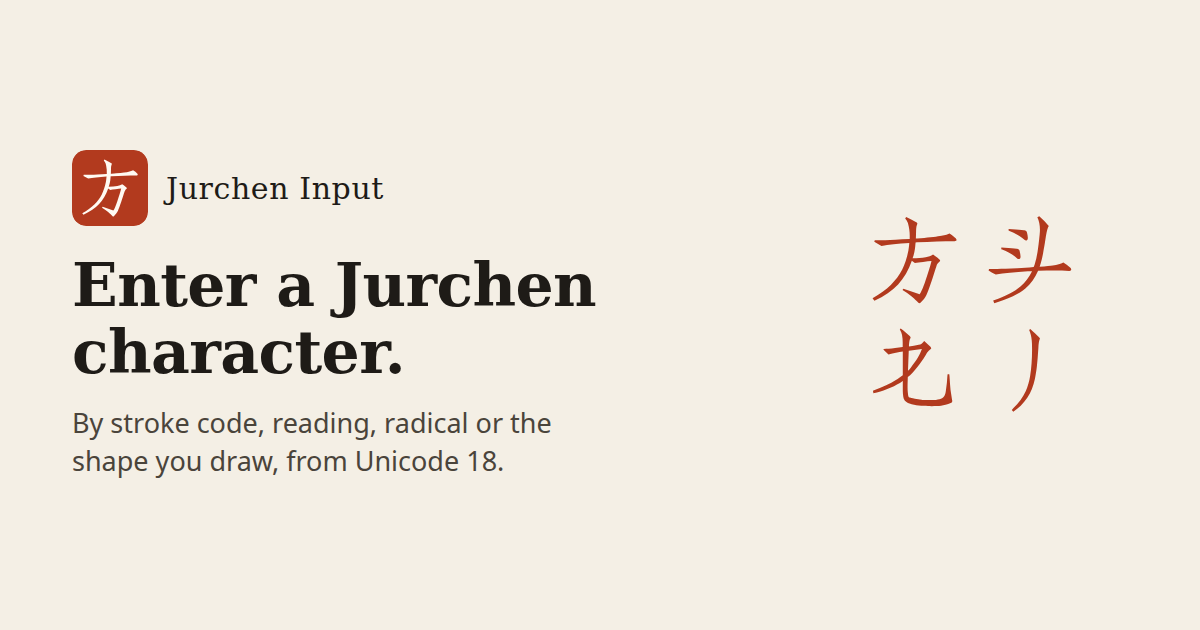
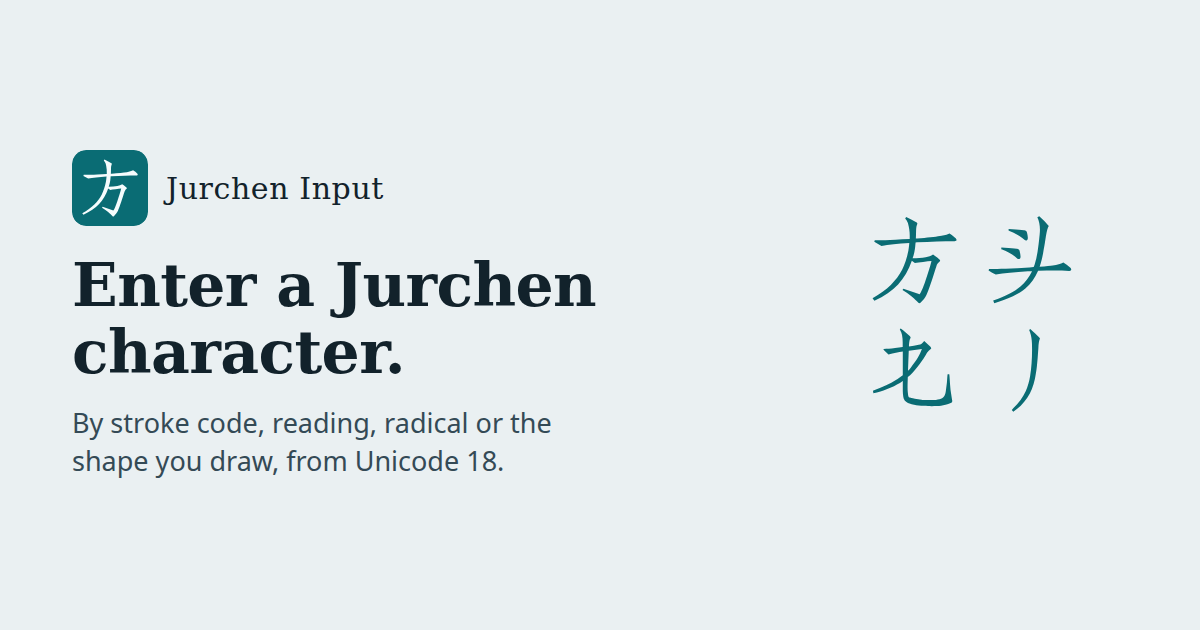
feat: give the site its own cool palette and mark colours

diff --git a/design/tokens.css b/design/tokens.css
@@ -1,6 +1,6 @@
 /* Jurchen Input design tokens.
 
-   The semantic layer and the paper primitives. Every colour is a light-dark() pair,
+   The semantic layer and the primitives. Every colour is a light-dark() pair,
    so `color-scheme` alone picks the side; a page that offers a switch sets `data-theme="light"`
    or `data-theme="dark"` on the root.
 
@@ -22,34 +22,34 @@
 }
 
 :root {
-  /* The paper primitives; the semantic tokens below read them. */
-  --p-canvas: light-dark(#f4efe5, #141210);
-  --p-surface: light-dark(#fffcf6, #1c1a17);
-  --p-sunken: light-dark(#ece5d8, #100f0d);
-  --p-hover: light-dark(#efe7d9, #26231f);
-  --p-active: light-dark(#e4dbca, #302c27);
-  --p-ink: light-dark(#1e1b17, #ece6dc);
-  --p-soft: light-dark(#4a443b, #c4bcae);
-  --p-muted: light-dark(#6d6456, #9a9184);
-  --p-border: light-dark(#e3dbcc, #2e2a25);
-  --p-border-strong: light-dark(#cbbfab, #48423a);
-  --p-control: light-dark(#8b7d68, #807565);
-  --p-control-hover: light-dark(#6f6353, #9a8e7d);
-  --p-accent: light-dark(#a83418, #f08a6b);
-  --p-accent-hover: light-dark(#8c2a13, #ffa387);
-  --p-accent-active: light-dark(#721f0d, #ffb8a1);
-  --p-accent-soft: light-dark(#f6e3da, #3a2219);
-  --p-accent-ink: light-dark(#8c2a13, #ffa387);
-  --p-on-accent: light-dark(#fffaf2, #1d110c);
-  --p-danger: light-dark(#b42318, #ff8a80);
-  --p-danger-hover: light-dark(#971c13, #ffa59d);
-  --p-danger-soft: light-dark(#fdecea, #3a1e1c);
-  --p-on-danger: light-dark(#fffaf2, #2a0b08);
-  --p-inverse-surface: light-dark(#1e1b17, #ece6dc);
-  --p-inverse-ink: light-dark(#fffaf2, #141210);
-  --p-selection: light-dark(#f3ddd2, #4a2a1f);
-  --p-scrollbar: light-dark(#cbbfab, #48423a);
-  --p-scrollbar-hover: light-dark(#8b7d68, #807565);
+  /* The primitives; the semantic tokens below read them. */
+  --p-canvas: light-dark(#eaf0f2, #0d1619);
+  --p-surface: light-dark(#f8fbfc, #142126);
+  --p-sunken: light-dark(#dde6ea, #0a1114);
+  --p-hover: light-dark(#e3ebee, #1c2c32);
+  --p-active: light-dark(#d3dee3, #25383f);
+  --p-ink: light-dark(#12222b, #e3eef1);
+  --p-soft: light-dark(#344a56, #b3c7ce);
+  --p-muted: light-dark(#4f6773, #8aa1aa);
+  --p-border: light-dark(#d4dfe4, #24363d);
+  --p-border-strong: light-dark(#b3c4cc, #3c535c);
+  --p-control: light-dark(#6a828e, #6f8893);
+  --p-control-hover: light-dark(#526a77, #8aa1aa);
+  --p-accent: light-dark(#0a6c74, #5cc9d0);
+  --p-accent-hover: light-dark(#08565d, #7fd8de);
+  --p-accent-active: light-dark(#064349, #a0e4e9);
+  --p-accent-soft: light-dark(#d4ecee, #12363b);
+  --p-accent-ink: light-dark(#08565d, #7fd8de);
+  --p-on-accent: light-dark(#f5fcfd, #06191c);
+  --p-danger: light-dark(#b3261e, #ff8f87);
+  --p-danger-hover: light-dark(#93201a, #ffaaa3);
+  --p-danger-soft: light-dark(#fbe9e8, #3a1f1f);
+  --p-on-danger: light-dark(#fdf6f5, #2a0b0a);
+  --p-inverse-surface: light-dark(#12222b, #e3eef1);
+  --p-inverse-ink: light-dark(#f5fcfd, #0d1619);
+  --p-selection: light-dark(#cfe8ea, #1c454b);
+  --p-scrollbar: light-dark(#b3c4cc, #3c535c);
+  --p-scrollbar-hover: light-dark(#6a828e, #6f8893);
 
   /* Surfaces. There are three: the page, the panel, and the inset. Hover and pressed are the
      only other fills, so a page does not grow a stack of near-identical greys. */
@@ -58,7 +58,7 @@
   --ui-color-surface-sunken: var(--p-sunken);
   --ui-color-surface-hover: var(--p-hover);
   --ui-color-surface-active: var(--p-active);
-  --ui-color-overlay: light-dark(rgb(35 27 18 / 0.32), rgb(0 0 0 / 0.62));
+  --ui-color-overlay: light-dark(rgb(8 24 32 / 0.34), rgb(0 0 0 / 0.62));
 
   /* Text */
   --ui-color-ink: var(--p-ink);
@@ -100,8 +100,8 @@
   --ui-color-inverse-ink: var(--p-inverse-ink);
 
   /* Shadow: only overlays cast one. The page itself is flat. */
-  --ui-shadow-color-2: light-dark(rgb(46 32 20 / 0.18), rgb(0 0 0 / 0.6));
-  --ui-shadow-1: 0 1px 2px light-dark(rgb(46 32 20 / 0.08), rgb(0 0 0 / 0.45));
+  --ui-shadow-color-2: light-dark(rgb(10 34 46 / 0.18), rgb(0 0 0 / 0.6));
+  --ui-shadow-1: 0 1px 2px light-dark(rgb(10 34 46 / 0.08), rgb(0 0 0 / 0.45));
   --ui-shadow-2: 0 10px 28px var(--ui-shadow-color-2);
 
   /* Type */
@@ -166,7 +166,7 @@
   --ui-switch-height: 24px;
   --ui-switch-thumb: 18px;
   --ui-switch-travel: 16px;
-  --ui-color-switch-thumb: light-dark(#fffcf6, #f4efe5);
+  --ui-color-switch-thumb: light-dark(#f8fbfc, #e3eef1);
   --ui-disabled-opacity: 0.45;
 
   /* Focus: one ring, everywhere. */

diff --git a/app/index.html b/app/index.html
@@ -4,8 +4,8 @@
   <meta charset="utf-8">
   <meta name="viewport" content="width=device-width, initial-scale=1, viewport-fit=cover">
   <meta name="color-scheme" content="light dark">
-  <meta name="theme-color" content="#f4efe5" media="(prefers-color-scheme: light)">
-  <meta name="theme-color" content="#141210" media="(prefers-color-scheme: dark)">
+  <meta name="theme-color" content="#eaf0f2" media="(prefers-color-scheme: light)">
+  <meta name="theme-color" content="#0d1619" media="(prefers-color-scheme: dark)">
   <link rel="icon" href="/favicon.svg" type="image/svg+xml" sizes="any">
   <link rel="icon" href="/icon-32.png" type="image/png" sizes="32x32">
   <link rel="apple-touch-icon" href="/apple-touch-icon.png">

diff --git a/design/base.css b/design/base.css
@@ -175,8 +175,8 @@ html {
 
 @media (prefers-contrast: more) {
   :root {
-    --ui-color-ink-muted: light-dark(#4a443b, #c4bcae);
-    --ui-color-border: light-dark(#cbbfab, #48423a);
+    --ui-color-ink-muted: light-dark(#344a56, #b3c7ce);
+    --ui-color-border: light-dark(#b3c4cc, #3c535c);
     --ui-color-control-border: var(--ui-color-ink-muted);
     --ui-color-control-border-hover: var(--ui-color-ink-muted);
   }
